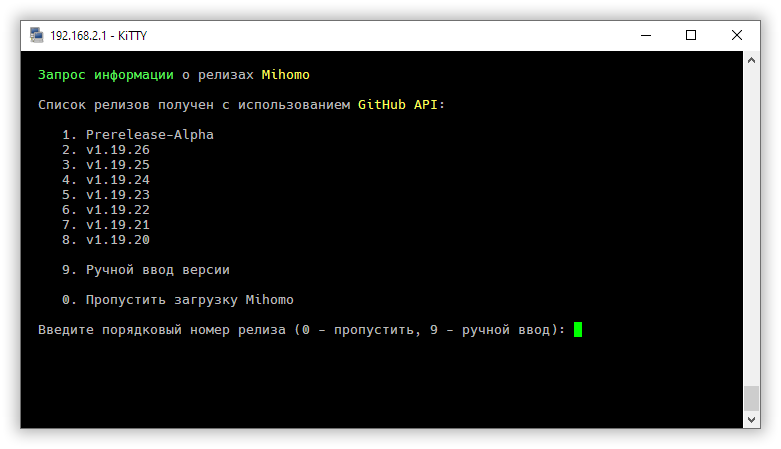
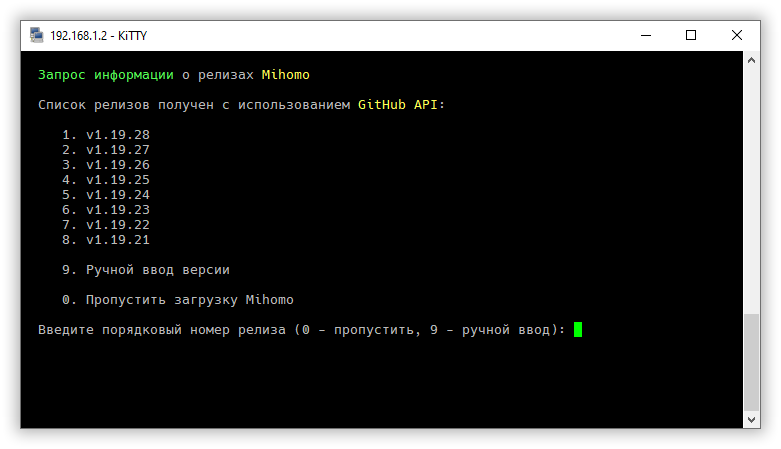
Update wiki

diff --git a/wiki/XKeen-modes.md b/wiki/XKeen-modes.md
@@ -26,3 +26,9 @@ UDP работает через TProxy, TCP — через более прост
 ---
 
 Рекомендуемыми режимами для XKeen являются **TProxy** и **Hybrid**
+
+---
+
+### О необходимости освобождения 443 порта
+
+При использовании режима чистого TProxy с любым ядром проксирования требуется освободить 443 порт управления роутером в веб-интерфейсе на странице "Пользователи и доступ". Вопреки опасениям пользователей, данный TCP порт наружу не открывается, а используется исключительно для внутренних нужд модуля `xt_TPROXY.ko` в KeeneticOS ([подробнее на форуме](https://forum.keenetic.ru/topic/17122-не-работает-tproxy-на-ipv4/#findComment-174174)). В результате освобождения 443 порта и переноса его на другой, меняются ссылки доступа к роутеру из интернета для всех сервисов (e.g. SSTP-сервер). Например, было https://myrouter.netcraze.link, станет https://myrouter.netcraze.link:8443 (после двоеточия укажите порт, который выбрали на замену 443). Для остальных режимов XKeen (Hybrid, Redirect, Other) перенос 443 порта не требуется. 

diff --git a/wiki/Knownissues.md b/wiki/Knownissues.md
@@ -2,11 +2,9 @@
 
 - При использовании NextDNS или нескольких DNS-профилей в Кинетике, при запрете транзита DNS у части клиентов пропадает интернет. Решение — разрешить транзит DNS в роутере. См. [issue #19](https://github.com/jameszeroX/XKeen/issues/19)
 
-- На архитектуре (`mipsle`) ранее наблюдались проблемы с запуском XKeen на ядре Mihomo из-за бага в `yq 4.52.4` ([yq#2609](https://github.com/mikefarah/yq/issues/2609)). В качестве временного решения в XKeen 2.0 Beta был добавлен workaround с откатом `yq` до рабочей версии. Позже, автор `yq` устранил проблему и workaround в XKeen был отключён. При повторении проблемы установите `yq_use_workaround="true"` в файле `01_info_variable.sh`
-
 - Проксирование трафика клиентов SSTP-сервера KeeneticOS не работает через XKeen, когда он в режиме TProxy. Решение - используйте режим Hybryd, это известная особеность реализации SSTP у Keenetic
 
-- Проксирование может не работать для удаленных клиентов, подключённых к роутеру по VPN (e.g. WireGuard) или при подключении роутера через мобильный интернет. Решение - отключите проксирование Entware (xkeen -pr off) и GeoIPSET (xkeen -dgips)
+- Проксирование может не работать для удаленных клиентов, подключённых к роутеру по VPN (e.g. WireGuard) или при подключении роутера через мобильный интернет. Решение - отключите проксирование Entware (`xkeen -pr off`) и GeoIPSET (`xkeen -dgips`)
 
 - При подключении к роутеру нескольких провайдеров, XKeen работает через "Основное подключение", даже если в политике XKeen отметить галкой "Резервное". Исправлено в XKeen 2.0.1 - [Подробнее](https://github.com/jameszeroX/XKeen/wiki/FAQ#22-два-провайдера--подключение-через-один) 
 